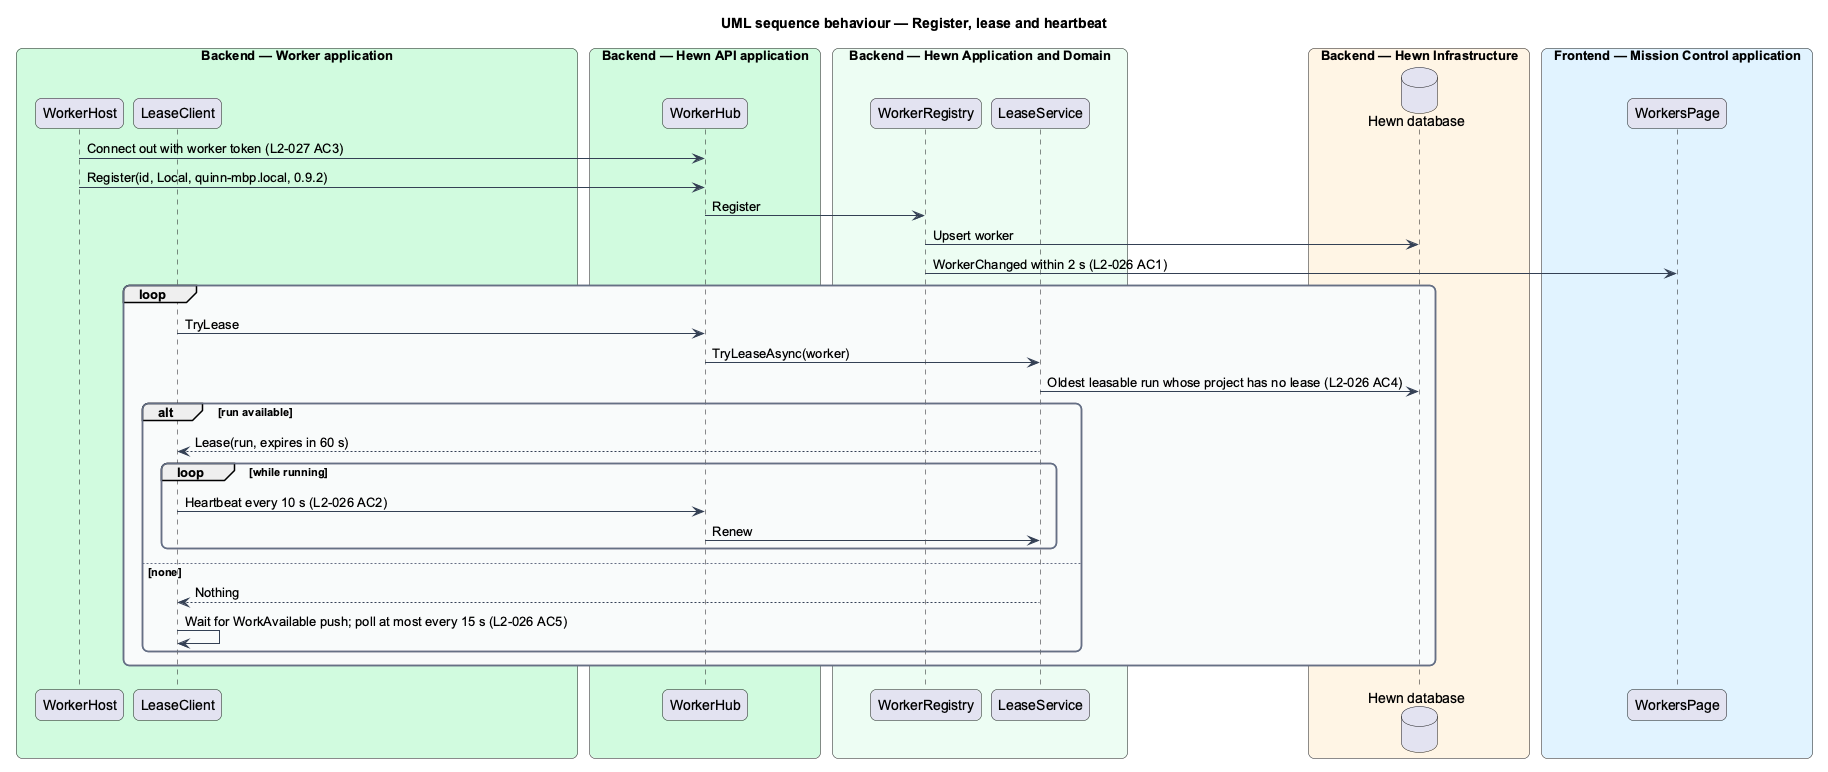
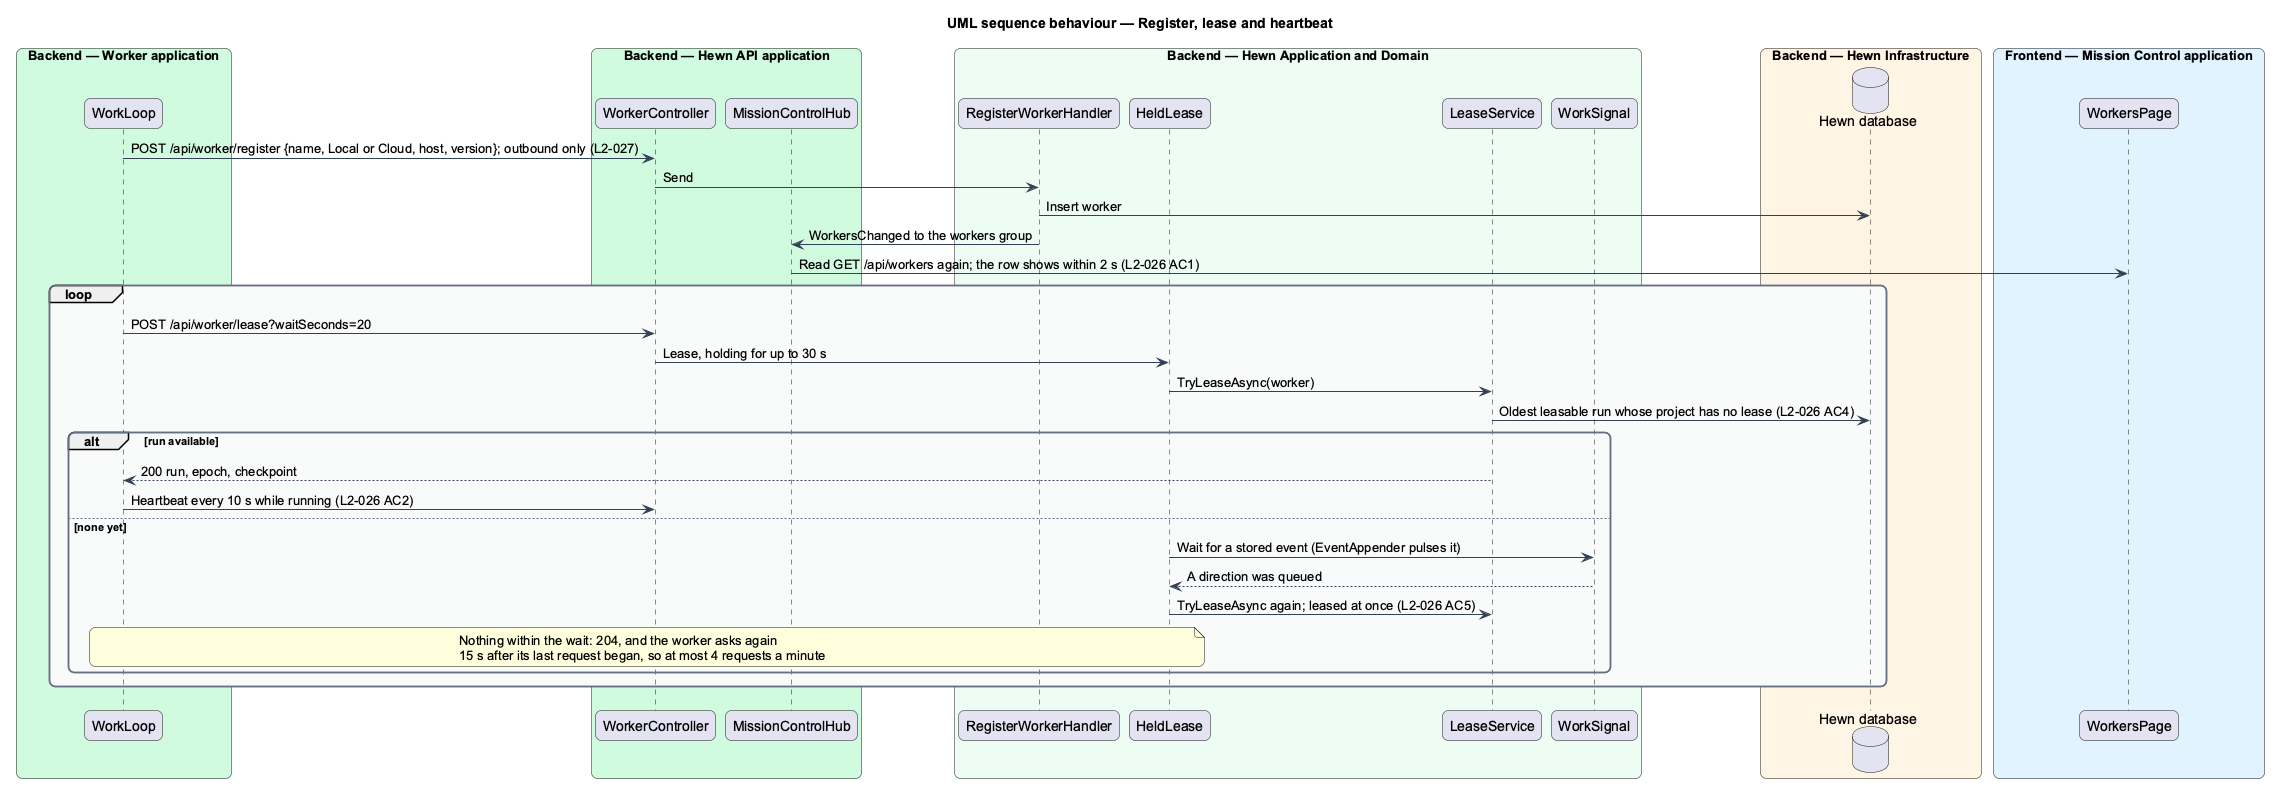
Redraw the lease and isolation sequences as built
The register-and-lease sequence shows WorkersChanged and the held
lease; the contain-a-run sequence shows the per-run proxy, the tool
gate and the command sandbox writing to the run's log.

Traces to: L2-026, L2-042

Claude-Session: https://claude.ai/code/session_01LjZiMqftK4BJirXGfFyqYe

diff --git a/docs/detailed-designs/agent-runtime/agent-isolation/README.md b/docs/detailed-designs/agent-runtime/agent-isolation/README.md
@@ -61,7 +61,7 @@ Every tool call passes `ToolGate`, every packet passes `EgressProxy`, and every 
 
 ### Behaviour — contain a run
 
-The run gets its own container and workspace (L2-042 AC1); git goes through the sidecar and the broker, while direct GitHub and other egress is blocked and logged (AC2); disallowed tools are denied and logged (AC3); no tool exists that could change Hewn configuration or push beyond the run's branch (AC4).
+As built in journey 23: the run gets its own workspace, and with `HEWN_SANDBOX=docker` its commands get their own containers (L2-042 AC1). Its proxy tunnels only to allowed hosts and logs every block (AC2). Its tool gate denies and logs tools outside the stage's allow list (AC3). It commits through the API, so no git remote or credential is ever in reach, and no tool exists that could change Hewn configuration (AC4).
 
 ![Sequence diagram: contain a run](diagrams/sequence-contain-a-run.png)
 

diff --git a/docs/detailed-designs/agent-runtime/worker-loop/README.md b/docs/detailed-designs/agent-runtime/worker-loop/README.md
@@ -83,7 +83,7 @@ A `Lease` ties one `Run` to one `Worker` until `ExpiresAt` and carries the `Epoc
 
 ### Behaviour — register, lease and heartbeat
 
-The worker registers and shows on the Workers page within 2 seconds (L2-026 AC1), leases one run and heartbeats every 10 seconds (AC2), with at most one lease per project (AC4). Idle, it waits for a push or polls at most every 15 seconds (AC5).
+The worker registers and shows on the Workers page within 2 seconds (L2-026 AC1), leases one run and heartbeats every 10 seconds (AC2), with at most one lease per project (AC4). Idle, it leases with a request the API holds open, so queued work is pushed to it at once, and it asks at most every 15 seconds (AC5).
 
 ![Sequence diagram: register, lease and heartbeat](diagrams/sequence-register-and-lease.png)
 
